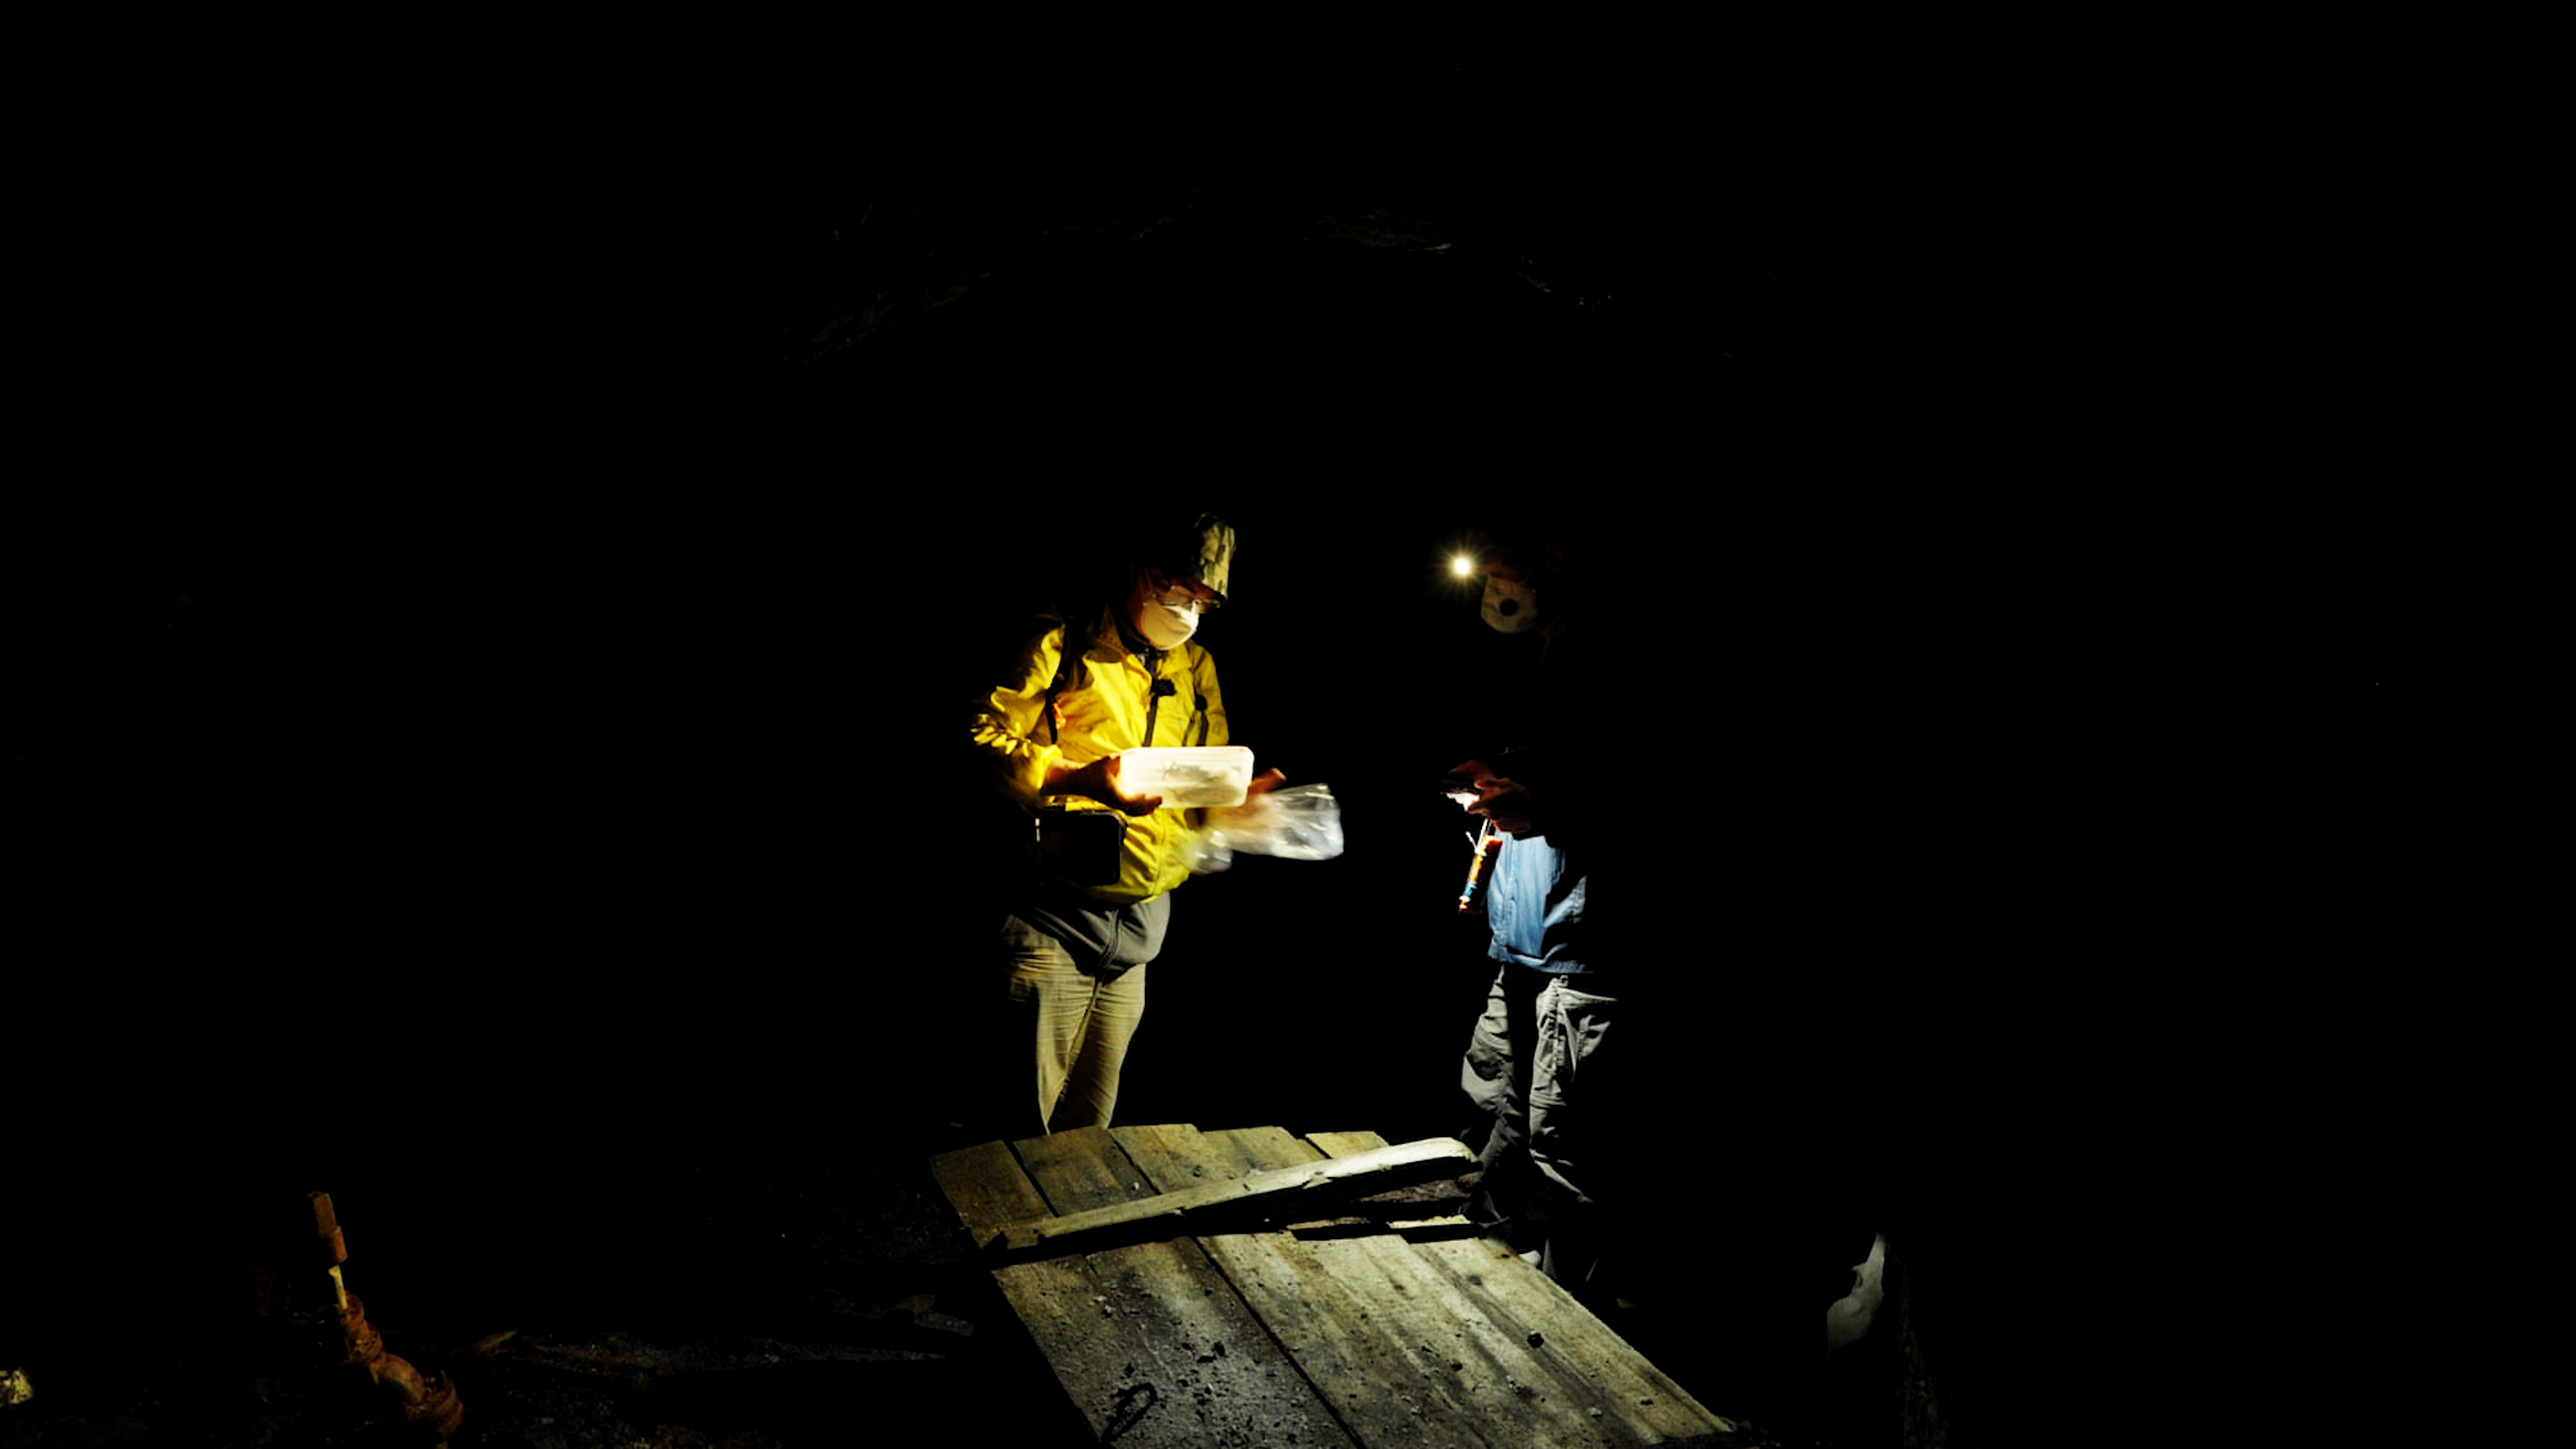
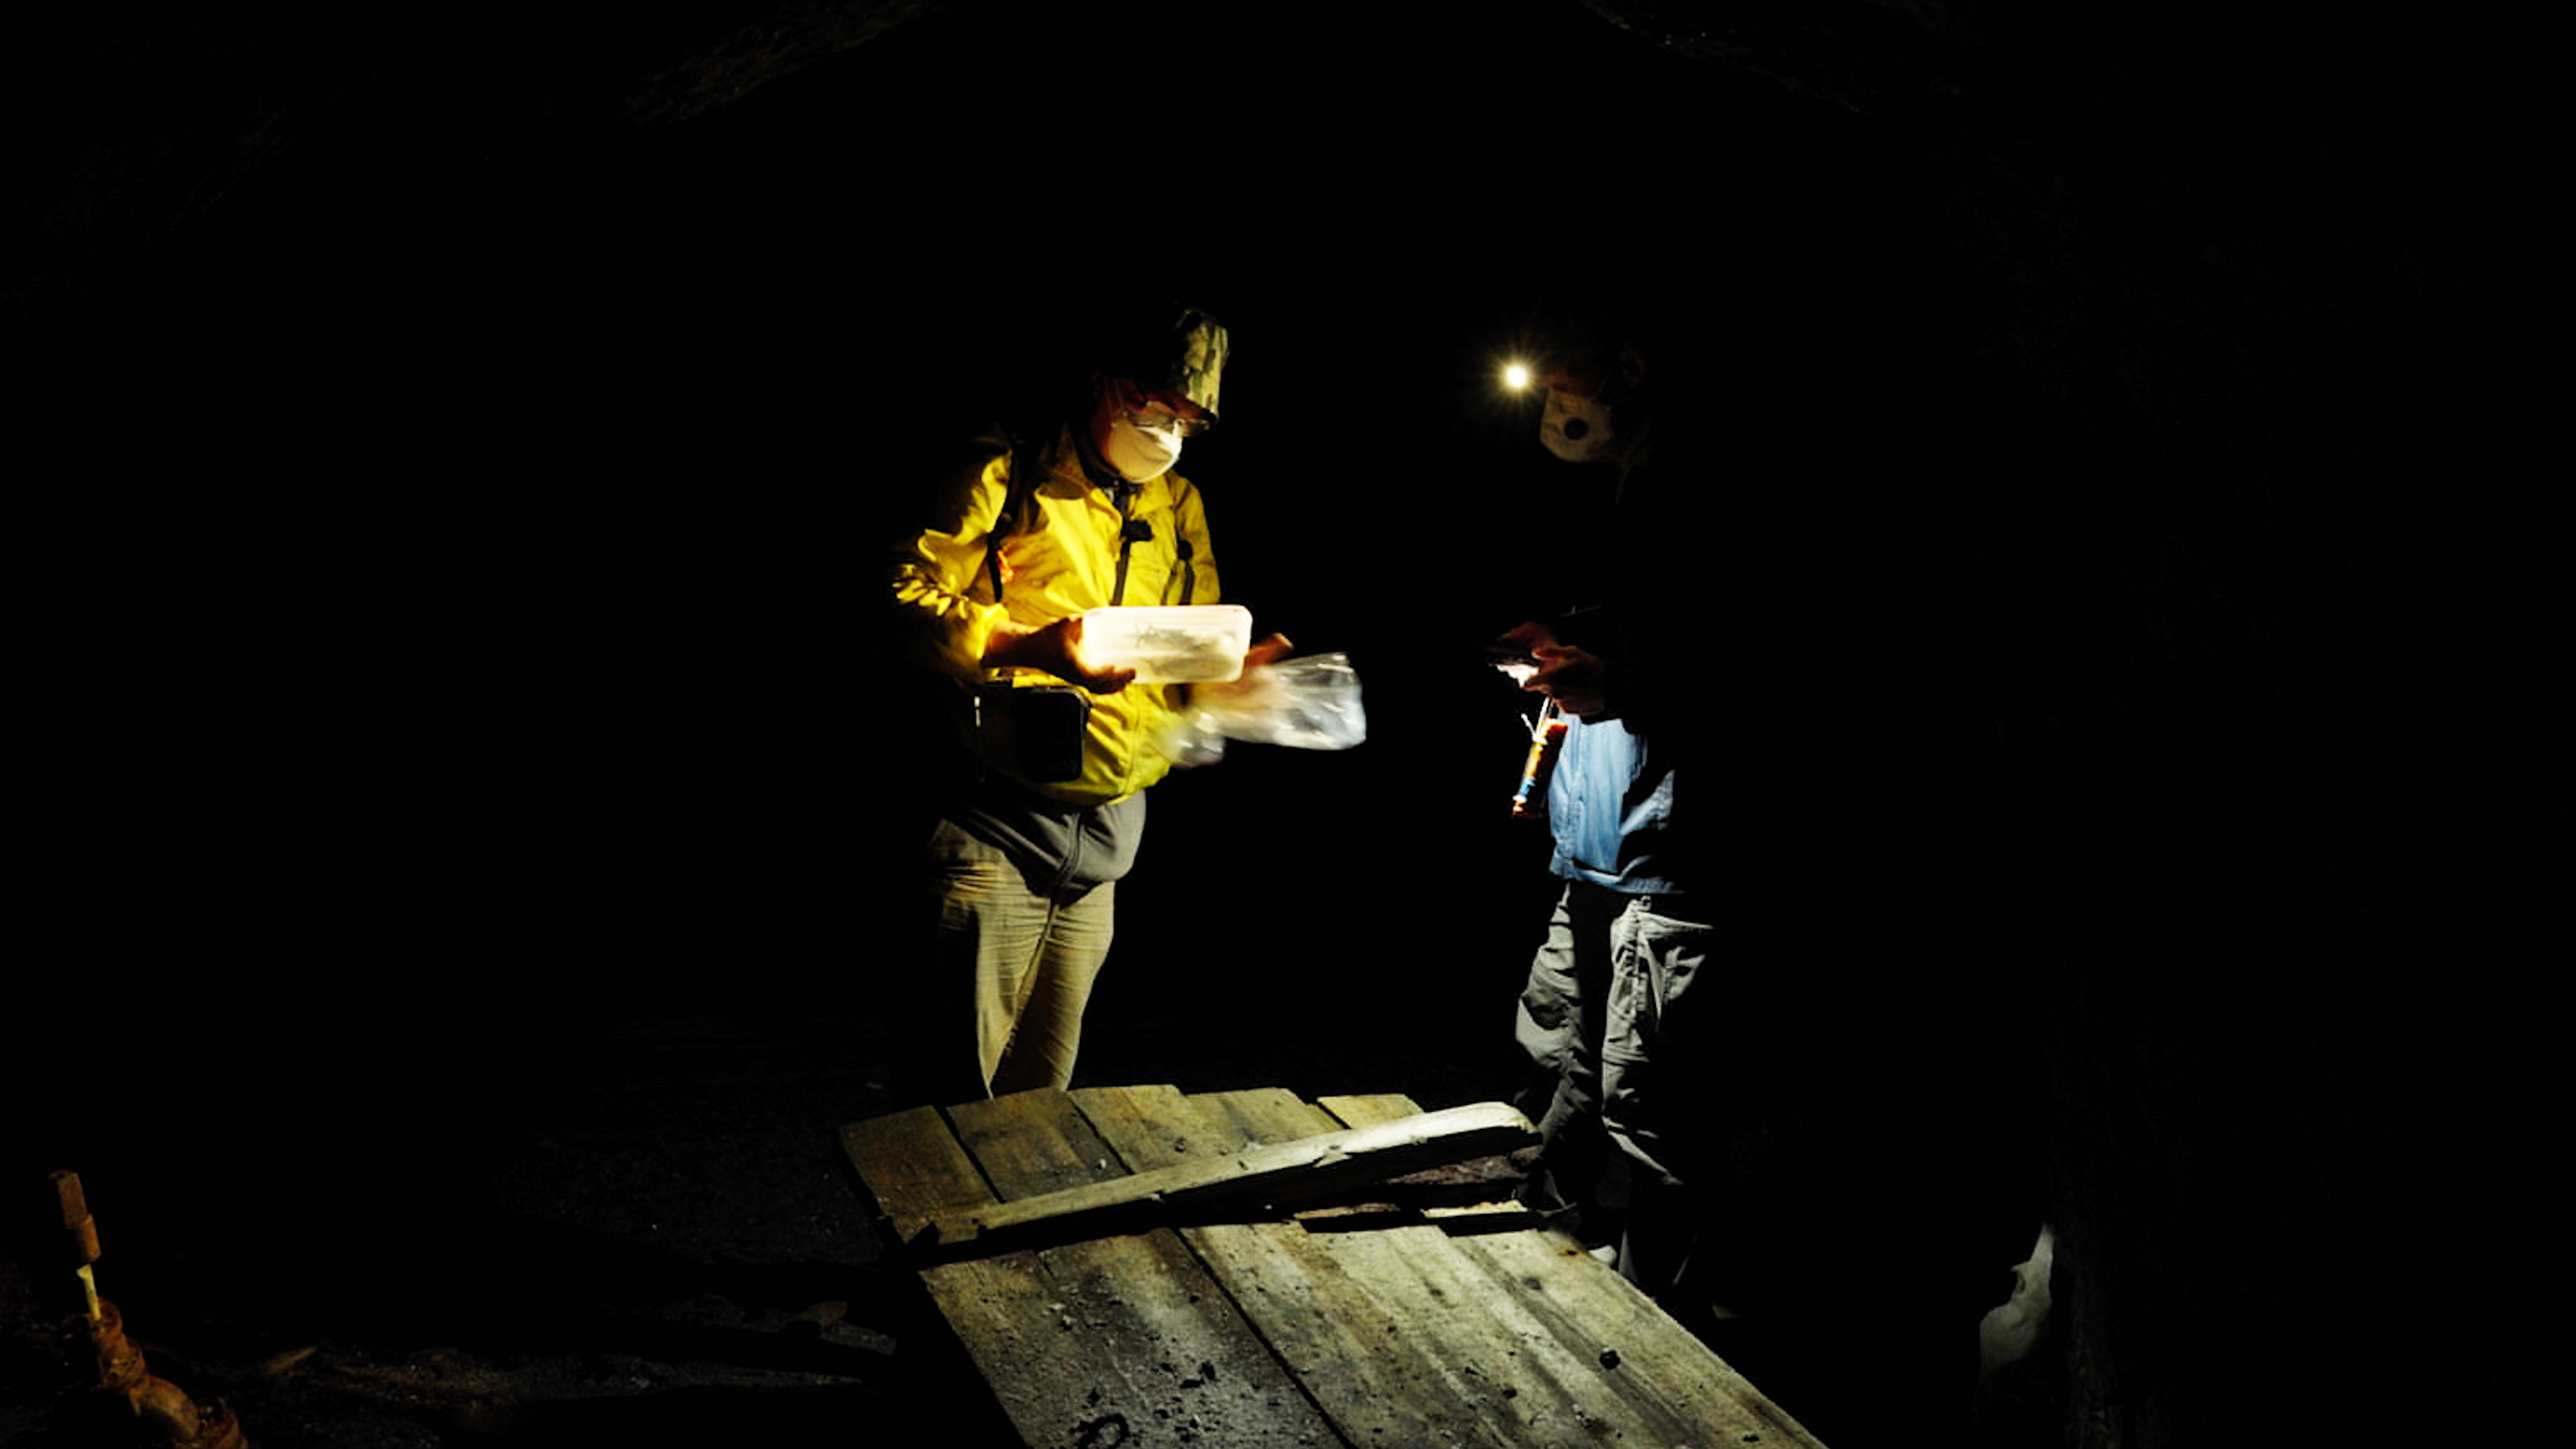
add new pics

diff --git a/app/projects/doc/page.tsx b/app/projects/doc/page.tsx
@@ -23,7 +23,8 @@ export default function DreamPage() {
 
           <p>
           A documentary film about nuclear physicist and environmental activist Andrey Ozharovsky.
-
+          </p>
+          <p>
           Directed by Dmitry Grigoriev.
           </p>
           <span className="coming-soon">Coming Soon</span>
@@ -53,7 +54,7 @@ export default function DreamPage() {
 
       <div className="screenshots-grid">
         <img src="/images/doc/f.jpg" alt="" />
-        <img src="/images/doc/walk.jpg" alt="" />
+        <img src="/images/doc/device.jpg" alt="" />
       </div>
 
     </main>

diff --git a/app/projects/pavel/page.tsx b/app/projects/pavel/page.tsx
@@ -38,7 +38,7 @@ export default function PavelPage() {
 
             <p className="text-center text-[#676f80] leading-[1.7]">
               Live performance recorded as part of a New Year concert
-              featuring singer-songwriter Pavel Fakhrtdinov
+              featuring singer-songwriter Pavel Fakhrtdinov.
             </p>
 
           </div>

diff --git a/app/globals.css b/app/globals.css
@@ -36,7 +36,7 @@ body {
   padding-right: 56px;
 
   padding-top: 0;
-  padding-bottom: 16px;
+  padding-bottom: 20px;
 }
 
 /* PROJECT CARD */
